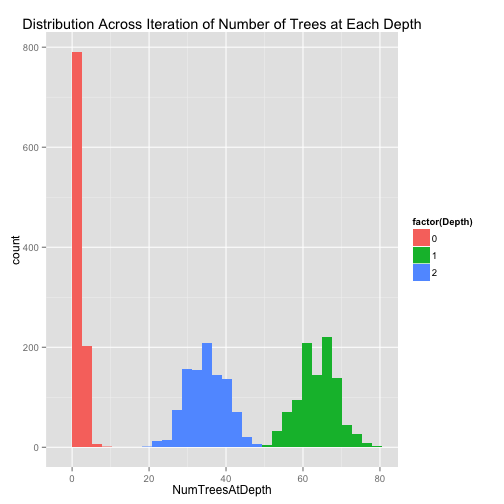
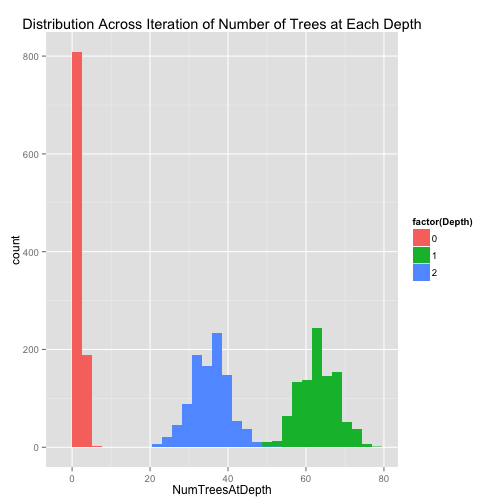
worked out LaTeX issues

diff --git a/_layouts/layout.html b/_layouts/layout.html
@@ -26,11 +26,35 @@
   <script type="text/javascript" src="/js/application.js"></script>
 
 
+
 <script type="text/javascript" src="/js/rsyntax.js"></script>
-<script type="text/javascript" src="https://c328740.ssl.cf1.rackcdn.com/mathjax/latest/MathJax.js?config=TeX-AMS-MML_HTMLorMML"></script>
- <link rel="stylesheet" href="/css/rmd.css" type="text/css" />
 
+<script type="text/javascript"
+    src="http://cdn.mathjax.org/mathjax/latest/MathJax.js?config=TeX-AMS-MML_HTMLorMML">
+</script>
 
+<script>
+MathJax.Hub.Config({
+  tex2jax: {inlineMath: [['$','$'], ['\\(','\\)']]}
+});
+
+MathJax.Hub.Config({
+      tex2jax: {
+        skipTags: ['script', 'noscript', 'style', 'textarea', 'pre']
+      }
+    });
+
+MathJax.Hub.Queue(function() {
+        var all = MathJax.Hub.getAllJax(), i;
+        for(i=0; i < all.length; i += 1) {
+            all[i].SourceElement().parentNode.className += ' has-jax';
+        }
+    });
+</script>
+
+<style>
+code.has-jax {font: inherit; font-size: 100%; background: inherit; border: inherit;}
+</style>
 
 </head>
 

diff --git a/css/base.css b/css/base.css
@@ -1,3 +1,4 @@
+
 @charset "UTF-8";
 body {
   font-family: "Palatino Linotype", "Book Antiqua", Palatino, serif;
@@ -108,7 +109,7 @@ a {
     margin-top: 0;
     margin-bottom: 1.2em;
     line-height: 1.7em; }
-    .content p code {
+    .content p code:not(.has-jax) {
       font-size: 12px;
       background-color: #eeeeee;
       border: 1px solid #777777;

diff --git a/_layouts/post.html b/_layouts/post.html
@@ -1,12 +1,6 @@
 ---
 layout: layout
 ---
-<script type="text/x-mathjax-config">
-MathJax.Hub.Config({
-  tex2jax: {inlineMath: [['$','$'], ['\\(','\\)']]}
-});
-</script>
-<script type="text/javascript" src="path-to-mathjax/MathJax.js?config=TeX-AMS-MML_HTMLorMML"></script><section class="content">
   <h1>
     {{ page.title }}
   </h1>

diff --git a/_posts/2014-07-06-bart-machine-simple-examples-discrete.md b/_posts/2014-07-06-bart-machine-simple-examples-discrete.md
@@ -12,13 +12,13 @@ The Bayesian Additive Regression Trees (BART) model consists of a sum of trees, 
 
 The purpose of this post is to explore how appropriate the resulting uncertainties seem in a few simple simulated examples where we know the truth. For this, I use the [`bartMachine`]() implementation by SOMEONE and SOMEONEELSE. The above description of the algorithm might be enough to follow along with this post, but I highly recommend reading at least the first page of the package authors' [vignette](), which provides a very clear description of the algorithm.
 
-### Simplest possible example:
+### Example 1: Simplest possible example
 
 In this example, $X_1$ (which is $0$ for 10 observations and $1$ for 100) is the only input, and 
 
-$$y = X_1 + 5 + \mathcal{N}(0,1)$$
+`$$y = X_1 + 5 + \mathcal{N}(0,1)$$`
 
-The model assumes that the noise is independent of everything, which is consistent with the example. You can see that the mean of $y$ depends on $X_1$, and that we have much more data with $X_1=1$ than $X_1=0$ 
+The model assumes that the noise is independent of everything, which is consistent with the example. You can see that the mean of $y$ depends on $X_1$ and that we have much more data with `$X_1=1$` than `$X_1=0$`. 
 
 ![plot of chunk unnamed-chunk-2](/images/posts/bart-machine-simple-examples-discrete/unnamed-chunk-2.png) 
 
@@ -52,7 +52,7 @@ mean(sigmaPosterior)
 ```
 
 ```
-## [1] 0.868
+## [1] 0.8655
 ```
 
 ```r
@@ -81,10 +81,6 @@ ggplot(sampleDF) + geom_histogram(aes(fill = factor(X1), x = SampleY))
 
 ```
 ## stat_bin: binwidth defaulted to range/30. Use 'binwidth = x' to adjust this.
-```
-
-```
-## Warning: position_stack requires constant width: output may be incorrect
 ```
 
 ![plot of chunk unnamed-chunk-4](/images/posts/bart-machine-simple-examples-discrete/unnamed-chunk-42.png) 
@@ -205,9 +201,9 @@ bartMachine:::get_tree_depths(bartFitByNumTrees[["100"]])[1, ]
 ```
 
 ```
-##   [1] 1 2 1 2 1 1 1 1 2 1 1 1 2 2 1 2 1 1 1 2 1 1 2 2 1 1 1 1 2 2 2 1 1 2 1
-##  [36] 1 1 1 1 1 1 1 1 2 1 1 2 1 2 2 1 1 1 1 1 1 1 1 2 1 2 1 2 2 1 1 2 1 1 1
-##  [71] 1 1 1 2 1 1 1 1 1 1 1 1 1 1 1 2 1 2 1 2 2 2 1 1 1 1 1 1 0 1
+##   [1] 2 1 1 1 1 1 1 1 1 1 1 1 1 1 1 2 1 1 2 2 1 1 1 2 1 1 2 1 1 1 1 1 1 1 1
+##  [36] 1 1 1 1 2 0 0 1 2 2 2 2 2 2 1 2 2 1 1 1 2 2 2 1 2 2 2 2 1 1 2 1 1 1 2
+##  [71] 2 1 1 1 1 1 1 2 1 2 2 1 2 1 1 2 1 1 2 1 2 1 2 1 2 2 2 1 1 1
 ```
 
 

diff --git a/post_source/README.md b/post_source/README.md
@@ -3,3 +3,5 @@ Here are blog posts in their source form, mostly markdown + code.
 For Julia, I used [Judo](https://github.com/dcjones/Judo.jl) to compile the markdown + Julia. The bash script `judoblog` in this directory is a small helper.
 
 For R, I'm using `knitr` to execute `Rmd` files. The R script `RmdToPost.R` in this directory is a smaller helper. The makefile says everything you need to know. (I wasn't using a makefile yet when I wrote the post with Julia.)
+
+LaTeX is wrapped in a code (single or triple backticks) to protect it from markdown rendering. For code blocks with LaTeX the `has-jax` class is applied, and the css rule for rendering code is told not to apply to that class. This approach is based on http://cwoebker.com/posts/latex-math-magic, but the ideas outlined there didn't quite work for me.
